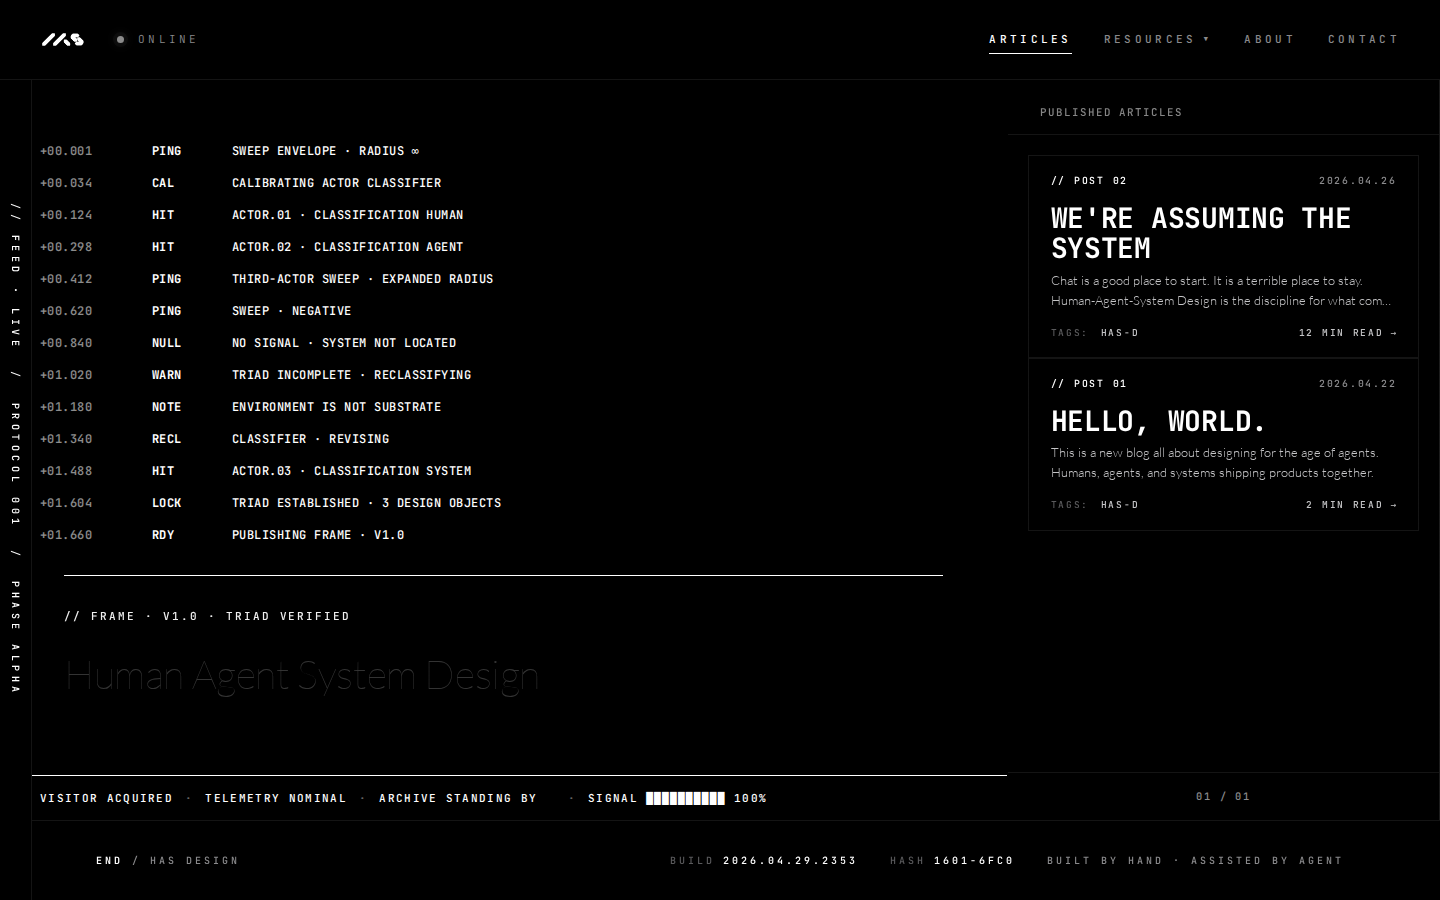
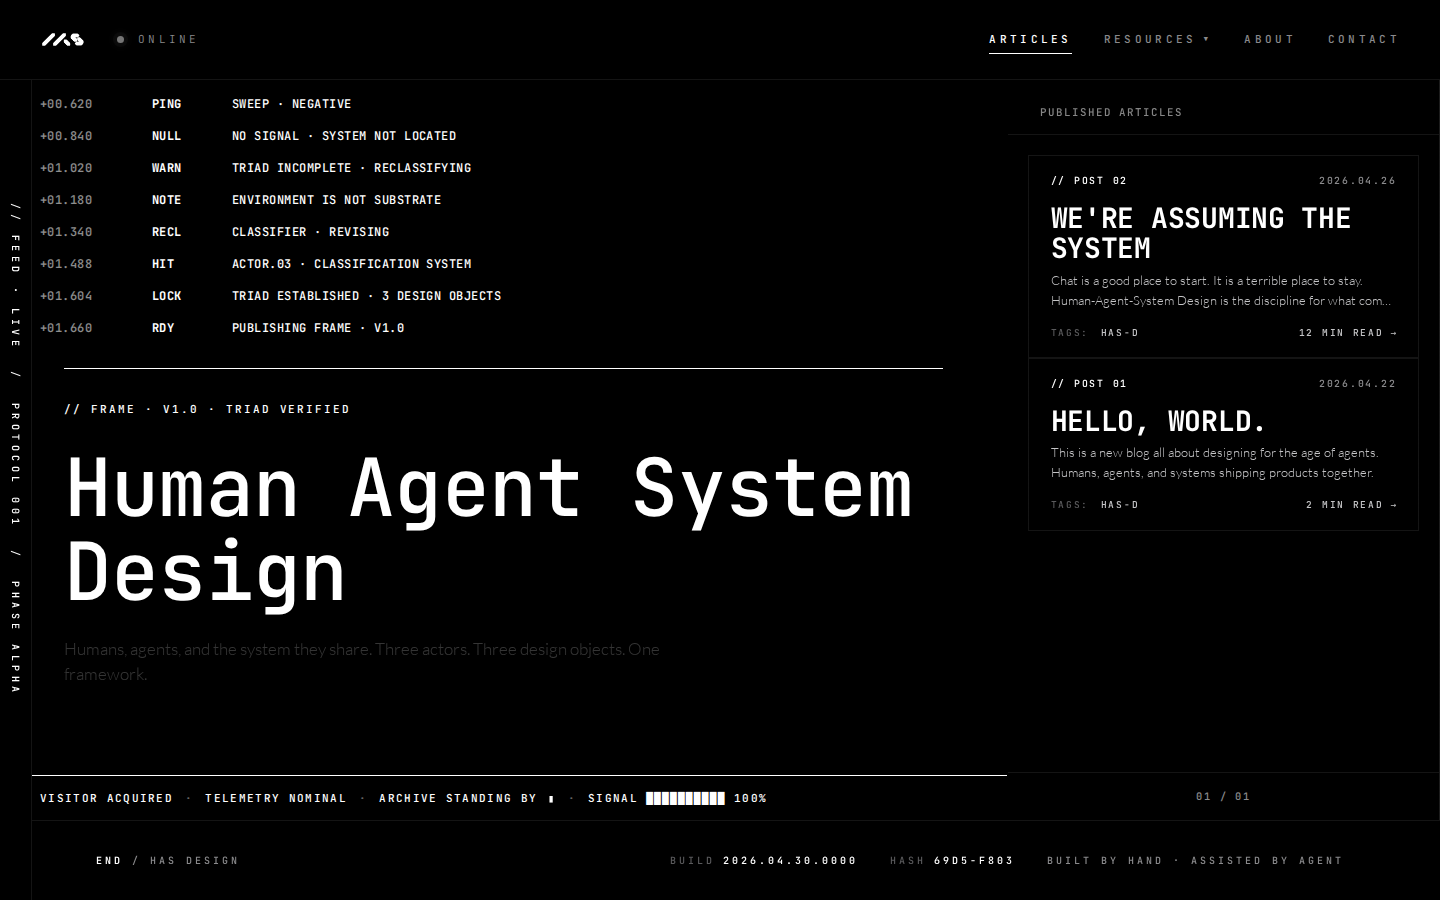
fix(hero): ILI-788 — h1 to JetBrains Mono 80px, drop dead CTA
h1 uses var(--font-mono) at 80px desktop (64px mobile), 2x the
previous size, with wrap allowed. .frame-line max-height bumped
to 320px so the wrapped h1 doesn't clip during the print
transition.

Removed the 'Begin transmission' CTA — link went nowhere. Frame
now ends on the audience line; the brand statement is the read.

diff --git a/tests/ili-788-verify.spec.ts b/tests/ili-788-verify.spec.ts
@@ -42,21 +42,19 @@ test.describe('ILI-788 — hero v2: black inversion + continuous print cadence',
       page.locator('.frame-h1').evaluate((el) => getComputedStyle(el).color),
       page.locator('.frame-dek').evaluate((el) => getComputedStyle(el).color),
       page.locator('.frame-audience').evaluate((el) => getComputedStyle(el).color),
-      page.locator('.frame-cta').evaluate((el) => getComputedStyle(el).color),
     ]);
     for (const c of textColors) expect(c).toBe('rgb(255, 255, 255)');
 
-    // CTA: 1px white border, transparent bg, white text. Hover → white bg + black text.
-    const ctaStyles = await page.locator('.frame-cta').evaluate((el) => {
+    // CTA removed (was a dead link).
+    expect(await page.locator('.frame-cta').count()).toBe(0);
+
+    // h1 is JetBrains Mono, 80px desktop.
+    const h1Style = await page.locator('.frame-h1').evaluate((el) => {
       const cs = getComputedStyle(el);
-      return {
-        border: cs.borderTopColor + ' ' + cs.borderTopWidth + ' ' + cs.borderTopStyle,
-        bg: cs.backgroundColor,
-      };
+      return { family: cs.fontFamily, size: cs.fontSize };
     });
-    expect(ctaStyles.border).toBe('rgb(255, 255, 255) 1px solid');
-    // transparent bg shows up as rgba(0,0,0,0)
-    expect(ctaStyles.bg).toMatch(/rgba\(0,\s*0,\s*0,\s*0\)|transparent/);
+    expect(h1Style.family.toLowerCase()).toMatch(/jetbrains mono/);
+    expect(h1Style.size).toBe('80px');
 
     // Frame rule is white.
     const ruleBg = await page.locator('.frame-rule').evaluate((el) =>
@@ -79,7 +77,7 @@ test.describe('ILI-788 — hero v2: black inversion + continuous print cadence',
 
     // B. Continuous print cadence — every frame element is wrapped in .frame-line.
     const wrapped = await page.evaluate(() => {
-      const sel = ['.frame-rule', '.frame-eyebrow', '.frame-h1', '.frame-dek', '.frame-audience', '.frame-cta'];
+      const sel = ['.frame-rule', '.frame-eyebrow', '.frame-h1', '.frame-dek', '.frame-audience'];
       return sel.every((s) => {
         const el = document.querySelector(s);
         return el && el.parentElement && el.parentElement.classList.contains('frame-line');
@@ -89,7 +87,7 @@ test.describe('ILI-788 — hero v2: black inversion + continuous print cadence',
 
     // No translateY transforms remain on hero elements at end-state.
     const transforms = await page.evaluate(() => {
-      const sel = ['.frame-rule', '.frame-eyebrow', '.frame-h1', '.frame-dek', '.frame-audience', '.frame-cta', '.frame-line'];
+      const sel = ['.frame-rule', '.frame-eyebrow', '.frame-h1', '.frame-dek', '.frame-audience', '.frame-line'];
       return sel.map((s) => {
         const el = document.querySelector(s);
         return el ? getComputedStyle(el).transform : 'none';
@@ -104,8 +102,6 @@ test.describe('ILI-788 — hero v2: black inversion + continuous print cadence',
       'Humans, agents, and the system they share. Three actors. Three design objects. One framework.'
     );
     await expect(page.locator('.frame-audience')).toHaveText('> FOR THE PEOPLE SHIPPING THEM');
-    await expect(page.locator('.frame-cta')).toHaveText(/Begin transmission/);
-    await expect(page.locator('.frame-cta')).toHaveAttribute('href', '/blog/were-assuming-the-system');
 
     // No em dashes in rendered hero copy.
     const heroText = await page.locator('.col-hero.has-hero-frame').textContent();
@@ -174,7 +170,8 @@ test.describe('ILI-788 — hero v2: black inversion + continuous print cadence',
     expect(overflow.docW).toBeLessThanOrEqual(overflow.winW);
 
     const h1Box = await page.locator('.frame-h1').boundingBox();
-    expect(h1Box?.height).toBeGreaterThan(34);
+    // 64px font + line-height 1.08 → ≥69px per line.
+    expect(h1Box?.height).toBeGreaterThan(69);
 
     await page.screenshot({
       path: 'verification-screenshots/ili-788-frame-mobile.png',

diff --git a/src/styles/homepage.css b/src/styles/homepage.css
@@ -486,15 +486,14 @@ body.hero-sequence-play .protocol-chip.is-typed {
 }
 
 .frame-h1 {
-  font-family: var(--font-sans);
-  font-weight: 100;
-  font-size: 40px;
+  font-family: var(--font-mono);
+  font-weight: 500;
+  font-size: 80px;
   line-height: 1.05;
   letter-spacing: -0.01em;
   color: #fff;
   margin-bottom: 24px;
   hyphens: none;
-  white-space: nowrap;
 }
 
 .frame-dek {
@@ -514,29 +513,6 @@ body.hero-sequence-play .protocol-chip.is-typed {
   letter-spacing: 0.18em;
   text-transform: uppercase;
   color: #fff;
-  margin-bottom: 32px;
-}
-
-.frame-cta {
-  display: inline-block;
-  font-family: var(--font-mono);
-  font-weight: 500;
-  font-size: 12px;
-  letter-spacing: 0.18em;
-  text-transform: uppercase;
-  color: #fff;
-  background: transparent;
-  border: 1px solid #fff;
-  padding: 12px 18px;
-  text-decoration: none;
-  transition:
-    background 120ms linear,
-    color 120ms linear;
-}
-.frame-cta:where(:hover, :focus-visible) {
-  background: #fff;
-  color: #000;
-  outline: none;
 }
 
 .signal-strip {
@@ -598,7 +574,7 @@ body.has-hero-frame-play .has-hero-frame .frame-line {
     opacity 0.18s linear 0.08s;
 }
 body.has-hero-frame-play .has-hero-frame .frame-line.is-visible {
-  max-height: 220px;
+  max-height: 320px;
   opacity: 1;
 }
 
@@ -614,8 +590,7 @@ body.has-hero-frame-play .has-hero-frame .frame-line.is-visible {
   .frame-eyebrow,
   .frame-h1,
   .frame-dek,
-  .frame-audience,
-  .frame-cta {
+  .frame-audience {
     transition: none !important;
     animation: none !important;
   }
@@ -1529,7 +1504,7 @@ body.hero-hover .hud-corner.br { transform: translate(-8.49px, -8.49px); }
     padding: 56px 24px 40px;
   }
   .col-hero.has-hero-frame .frame-h1 {
-    font-size: 32px;
+    font-size: 64px;
     line-height: 1.08;
     white-space: normal;
     word-break: normal;

diff --git a/tests/ili-787-verify.spec.ts b/tests/ili-787-verify.spec.ts
@@ -25,15 +25,14 @@ test.describe('ILI-787 — frame hero on index, HUD hero preserved on /blog', ()
     expect(await page.evaluate(() => document.body.classList.contains('has-hero-frame-play'))).toBe(false);
 
     const finalVisible = await page.locator('.frame-line.is-visible').count();
-    expect(finalVisible).toBe(6);
+    expect(finalVisible).toBe(5);
 
     // Final copy lands verbatim per spec — no em dashes, no edits.
     await expect(page.locator('.frame-eyebrow')).toHaveText('// FRAME · V1.0 · TRIAD VERIFIED');
     await expect(page.locator('.frame-h1')).toHaveText('Human Agent System Design');
     await expect(page.locator('.frame-dek')).toHaveText('Humans, agents, and the system they share. Three actors. Three design objects. One framework.');
     await expect(page.locator('.frame-audience')).toHaveText('> FOR THE PEOPLE SHIPPING THEM');
-    await expect(page.locator('.frame-cta')).toHaveText(/Begin transmission/);
-    await expect(page.locator('.frame-cta')).toHaveAttribute('href', '/blog/were-assuming-the-system');
+    expect(await page.locator('.frame-cta').count()).toBe(0);
 
     // No em dashes anywhere in the rendered hero copy.
     const heroText = await page.locator('.col-hero.has-hero-frame').textContent();
